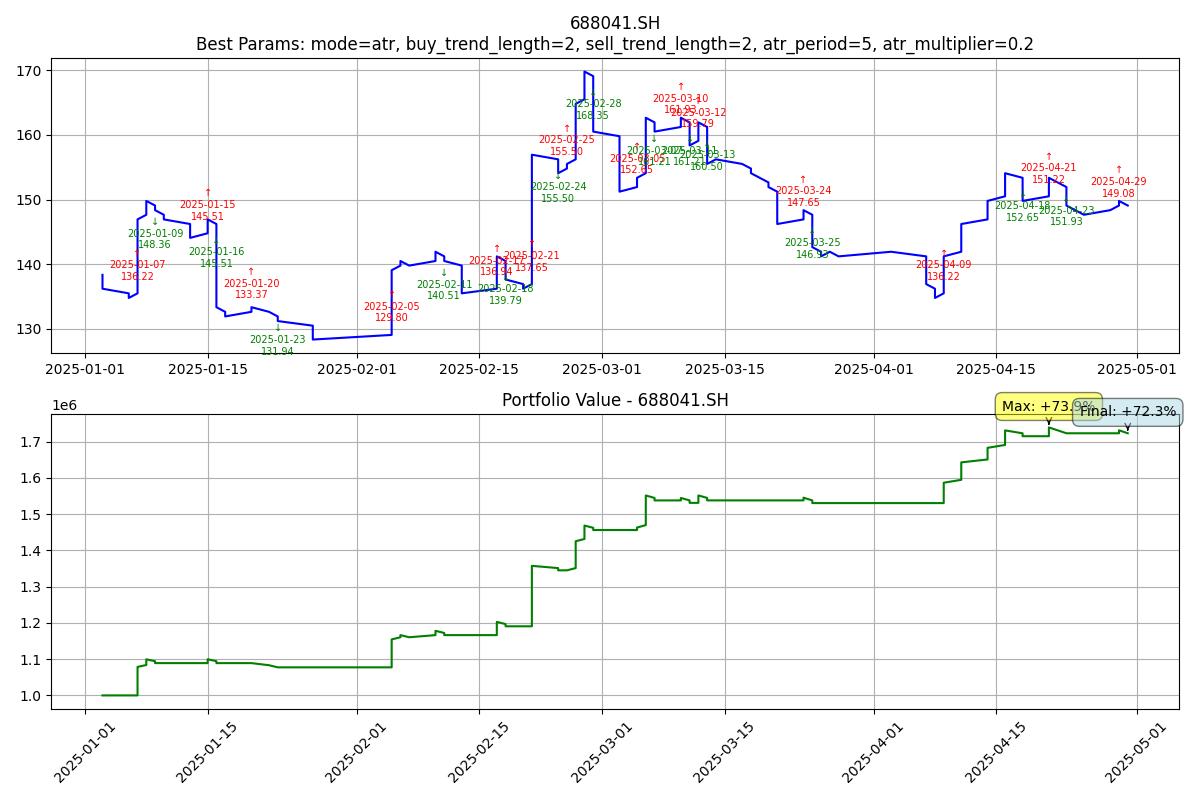
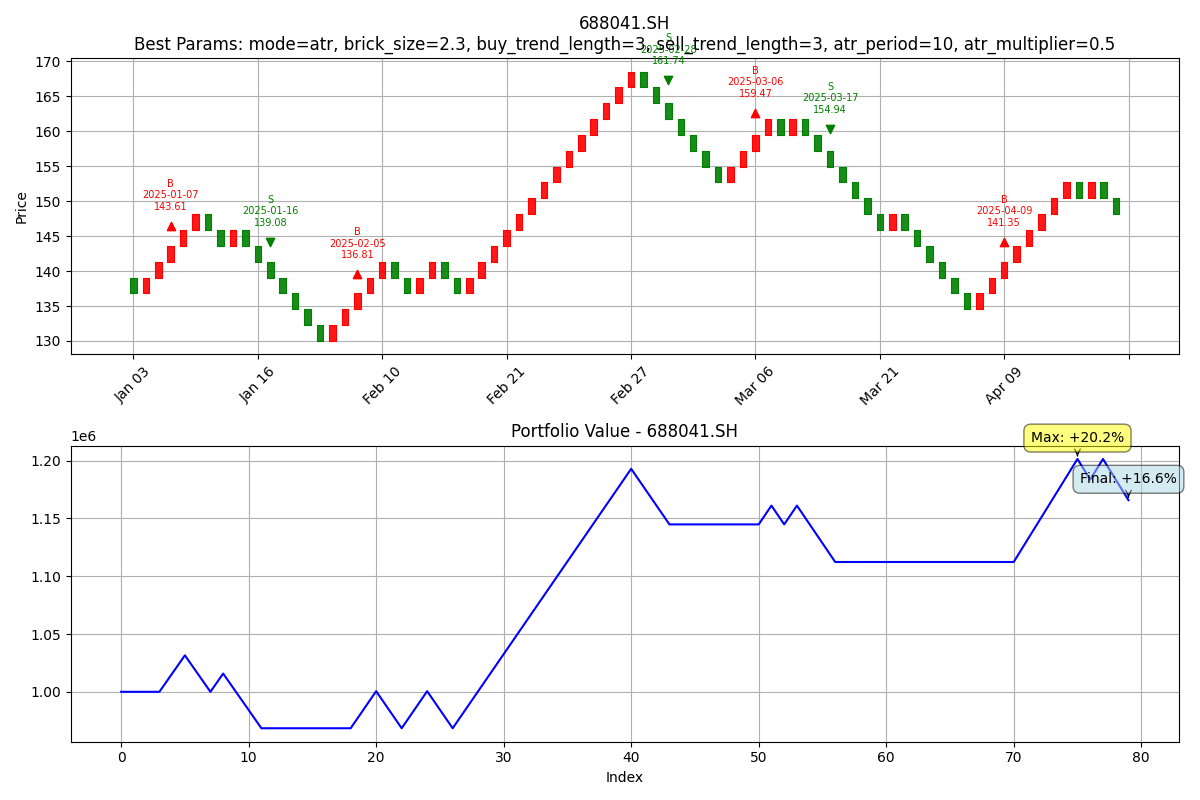
改成砖形图形态

diff --git a/src/renko_plotter.py b/src/renko_plotter.py
@@ -53,8 +53,8 @@ class RenkoPlotter:
         for i in buy_signals.index:
             date = renko_data.iloc[i]['date']
             price = renko_data.iloc[i]['close']
-            # 将标记点向上移动5%
-            offset_price = price * 1.07
+            # 将标记点向上移动2%
+            offset_price = renko_data.iloc[i]['high'] * 1.02
             ax.scatter(i, offset_price, color='red', marker='^')
             ax.annotate(f'B\n{date.strftime("%Y-%m-%d")}\n{price:.2f}', 
                        xy=(i, offset_price),
@@ -69,8 +69,8 @@ class RenkoPlotter:
         for i in sell_signals.index:
             date = renko_data.iloc[i]['date']
             price = renko_data.iloc[i]['close']
-            # 将标记点向上移动5%
-            offset_price = price * 1.07
+            # 将标记点向上移动2%
+            offset_price = renko_data.iloc[i]['high'] * 1.02
             ax.scatter(i, offset_price, color='green', marker='v')
             ax.annotate(f'S\n{date.strftime("%Y-%m-%d")}\n{price:.2f}', 
                        xy=(i, offset_price),
